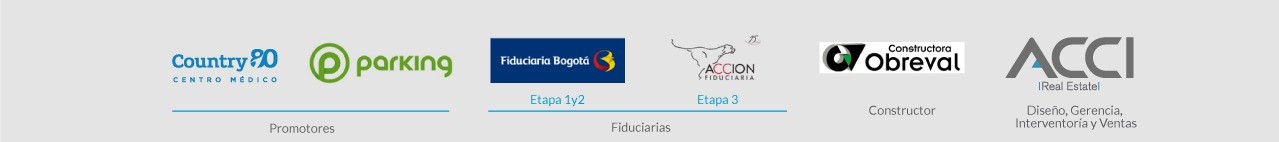
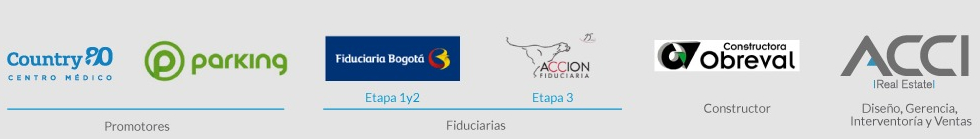
Mejorado localizacion

diff --git a/src/styles/scss/components/content/localizacion.scss b/src/styles/scss/components/content/localizacion.scss
@@ -41,7 +41,7 @@
 
         .localizacion_direccion {
           font-size: 1.25rem;
-          margin-top: 2rem;
+          margin: 2rem 0;
           strong {
             text-transform: uppercase;
           }
@@ -53,10 +53,10 @@
 
       >.localizacion__items {
         background-color: white;
-        left: 10%;
+        left: 3%;
         padding: 1rem;
         position: absolute;
-        top: 60%;
+        top: 45%;
         width: 30%;
 
         >.localizacion__item {
@@ -66,7 +66,7 @@
             content: '';
             display: inline-block;
             height: 5px;
-            width: 100px;
+            width: 25%;
             margin-right: 0.75rem;
           }
           &:nth-child(1){
